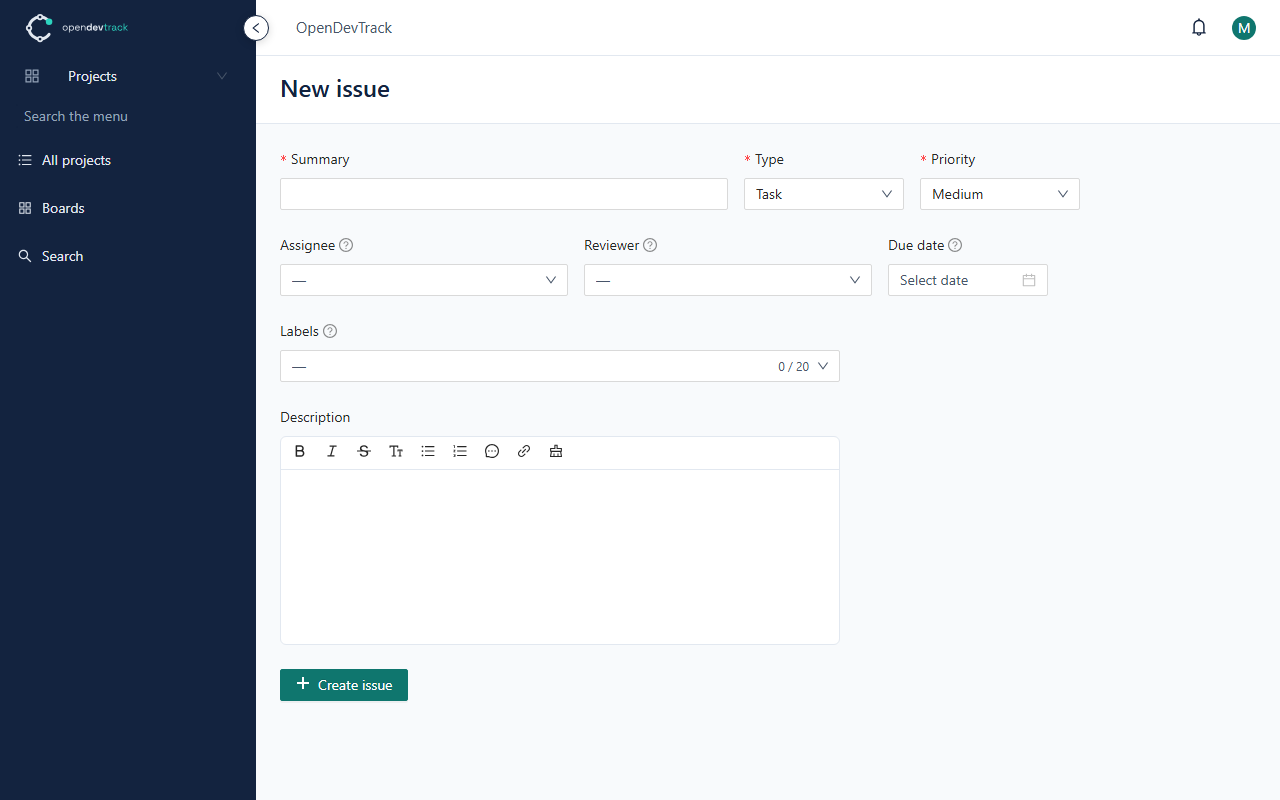
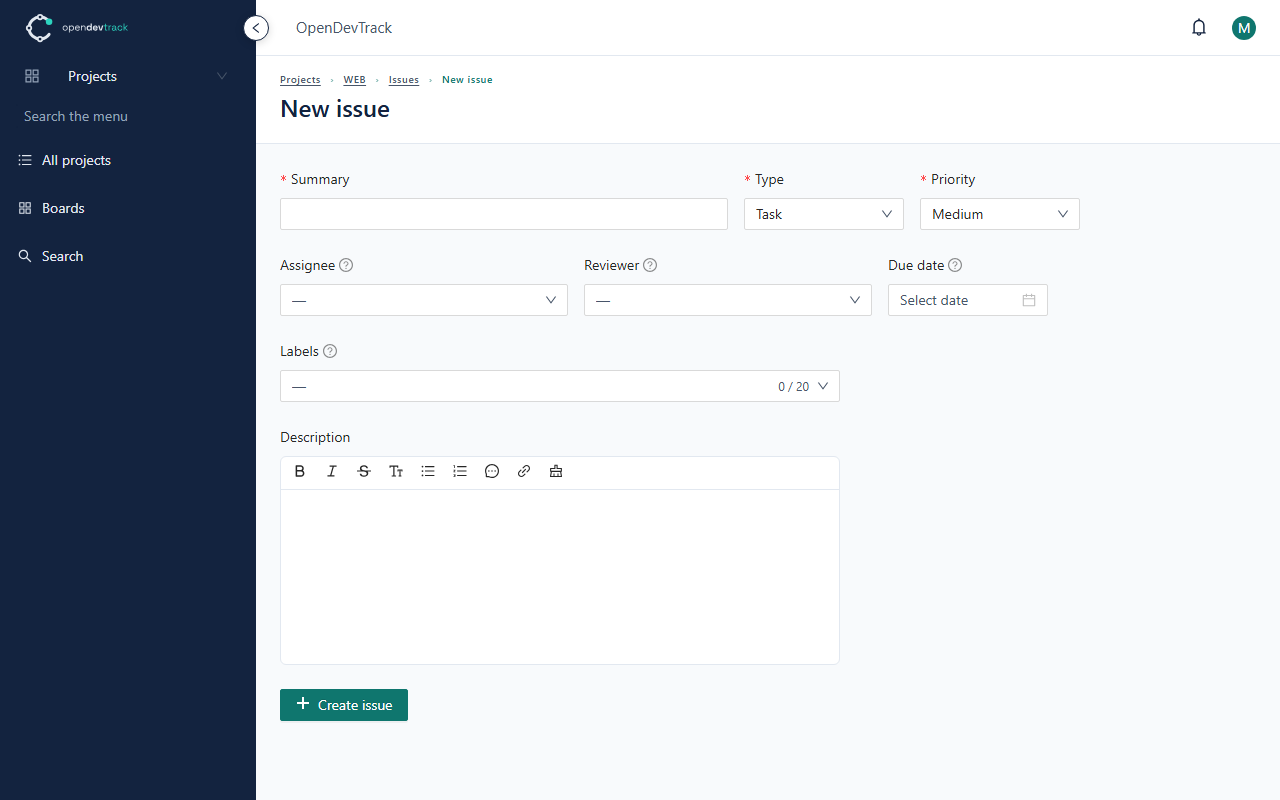
feat(ui): breadcrumbs on every page, with Quadrava 0.21.0
Runtime image, CLI, kits and schemas move to 0.21.0, which answers Q37: a
screen may declare its breadcrumbs, and their items lead back to their page.
The screen schema gains `breadcrumb`; the other schemas are unchanged, and
the new check of the CLI on the targets of `navigate` finds nothing.

The screens of the menu keep its path. The 14 that are not in the menu
declare theirs, up to the menu: Projects, the project by its key, the page
above if any, and the screen itself, for example Projects › WEB › Issues ›
WEB-4. The key comes from the parameters, so no screen loads the project
only to name it; a record at the end (a board, a webhook, a workflow, a
group) is named by its data source with has(), empty while it loads.

Checked in the development stack: the path of every screen, its links, and
a click that opens the project inside the application. The user guide,
ui/README.md and the images of those screens follow.

Closes #45

diff --git a/HANDOFF.md b/HANDOFF.md
@@ -14,14 +14,14 @@ Quadrava and authz-library, and the ADRs say where.
   (`ModularityTests`: `verify()` and the module documentation). The `odt.*` permission catalogue is a repeatable
   Flyway migration of the RBAC schema (ADR-07); the dev profile adds tenants, users and the UI author/approver roles.
 - Module `uiregistry` (ADR-03): `contracts/registry.yaml` 0.7.0, adapted from the Quadrava reference registry
-  (commit 9fa1916, contract 0.6.0), on PostgreSQL (`odt_uiregistry`), validated with the schemas of Quadrava 0.20.1 in the classpath.
+  (commit 9fa1916, contract 0.6.0), on PostgreSQL (`odt_uiregistry`), validated with the schemas of Quadrava 0.21.0 in the classpath.
   The browser uses the session; tools use Keycloak access tokens of `opendevtrack-tools` on `/registry/**`
   (the bearer access of authz-library, A4).
 - `ui/`: the Quadrava project, with the main navigation, home and projects placeholder screens, themes `odt-light` and
-  `odt-dark` from `brand/`, English and Italian catalogues. The Quadrava CLI 0.20.1 checks it (`quadrava validate`) and publishes it
+  `odt-dark` from `brand/`, English and Italian catalogues. The Quadrava CLI 0.21.0 checks it (`quadrava validate`) and publishes it
   (`quadrava publish`) to any environment: no environment is protected (ADR-12).
 - End-to-end check (`docs/check-authz-end-to-end.md`): Quadrava kits bff 13/13 with and without a session, authz 11/11,
-  registry 24/24 (`--protected-env none`), tenant switch kept across logins, `ui/` served by the runtime 0.20.1 from the
+  registry 24/24 (`--protected-env none`), tenant switch kept across logins, `ui/` served by the runtime 0.21.0 from the
   registry. Quadrava 0.5.0 adopted on 4 November 2026 (from 0.2.1: same schemas, registry contract 0.7), 0.6.0 on 5
   November (tab title and icons from the theme, shell texts built in: Q3 and Q4), 0.7.0 on 5 November (theme and
   language in the settings dialog of the user menu; the message bell of ADR-22), 0.8.0 on 6 November (`data.<name>` in the expressions: Q9), 0.9.0 on 6 November (links from the rows, Q10;
@@ -187,6 +187,8 @@ texts in English), A4 (bearer access for tools), A5 (read-only list of the tenan
    - `v1.0.0-rc.4` tagged on 3a7b36a with Quadrava 0.20.1: its workflow green after the installation job was rerun
      once, as for rc.3 (its log hides why it failed, #44), image @sha256:078b7fca… with its signature and SBOM verified
      by cosign. The demo is upgraded to it (old `.env` in /root/odt-demo-env.rc3.bak); `watch.sh` ok.
+   - The project page in tabs, as the issue page (25 November 2026). Quadrava 0.21.0 adopted (Q37): breadcrumbs on
+     every screen, declared by the 14 that are not in the menu.
    Next: the screen reader lines and the ZAP baseline on the current candidate.
 2. Deployment: `deploy/compose` (ADR-25 step 1) runs the back end, the runtime, PostgreSQL and Redis, with Caddy and
    Keycloak as optional profiles. `odt.sh first-admin` creates the first tenant and global administrator (one-off

diff --git a/docs/README.md b/docs/README.md
@@ -73,7 +73,7 @@ Found while writing the ADRs; each is built in its own repository, optional for 
 | Q34 | Quadrava | In a dark theme the colours of the theme win over the dark stylesheet of NG-ZORRO, which today turns primary buttons, tabs and tags to its own blue and danger buttons to a dark red, below 4.5:1 (manual accessibility check of 1.0.0-rc.1, issue #40; asked 24 November 2026; released in Quadrava 0.20.0, the colours of the theme win, and adopted: no text below 4.5:1 on ten screens in the dark theme; the badges of the board remain, Q35) |
 | Q35 | Quadrava | The text of a tone tag on a coloured fill reads on it: in a dark theme the badges of the kanban cards are white on the light text colours of the theme, 2.56:1 (neutral) and 2.77:1 (danger); `onPrimary`, or black or white, as for buttons since 0.20.0 (issue #42; asked 24 November 2026; released in Quadrava 0.20.1, the text of a badge in the colour the theme computes for its fill, and adopted: black on the badges of the board in the dark theme, about 8:1) | F5 |
 | Q36 | Quadrava | The runtime remembers the theme chosen in Settings, as it remembers the language: today a reload or the next sign-in shows the first theme again (issue #43; asked 24 November 2026; released in Quadrava 0.20.1, `lc.theme` in the storage of the browser, and adopted: the dark theme stays after a reload) | F5 | F5 |
-| Q37 | Quadrava | Breadcrumbs on every page: a screen declares its own (labels as expressions, items with `navigate` and `params`, the last one the screen), and their items are links; today only the screens of the menu have them, as plain text, so the project, an issue, the backlog or a board have none (asked by the maintainer; issue #45; asked 25 November 2026) | F5 |
+| Q37 | Quadrava | Breadcrumbs on every page: a screen declares its own (labels as expressions, items with `navigate` and `params`, the last one the screen), and their items are links; today only the screens of the menu have them, as plain text, so the project, an issue, the backlog or a board have none (asked by the maintainer; issue #45; asked 25 November 2026; released in Quadrava 0.21.0, `breadcrumb` on screens, and adopted: the 14 screens outside the menu declare their path, ui/README.md) | F5 |
 | A1 | authz-library | Extension point for permissions that depend on a resource (ADR-07; until then `_perm` on rows and forms; released in authz-library 2.2.0, `PermissionContributor`, and adopted: `project/ProjectPermissions` decides `/authz/check` for a project or an issue; `_perm` stays for the screens) | F2 |
 | A2 | authz-library | A configurable schema for the RBAC tables (today they go into `public`, next to the `odt_*` schemas of the modules; released in authz-library 2.2.0, `authz.rbac.schema`, and adopted: schema `authz`) | F1 |
 | A3 | authz-library | Problem titles and details in English (today Italian, for example «Troppi tentativi di accesso»); released in authz-library 2.1.0 and adopted (2.2.0) | F5 |

diff --git a/ui/README.md b/ui/README.md
@@ -1,7 +1,7 @@
 # OpenDevTrack screens
 
 The front end of OpenDevTrack is this Quadrava project: screens, navigation, themes and translations, as JSON documents
-validated by the schemas of the pinned Quadrava version (0.20.1, ADR-01). No Angular code: the runtime image of Quadrava
+validated by the schemas of the pinned Quadrava version (0.21.0, ADR-01). No Angular code: the runtime image of Quadrava
 loads them from the registry of the back end (module `uiregistry`, ADR-03).
 
 | Path | Registry kind | What |
@@ -42,20 +42,25 @@ loads them from the registry of the back end (module `uiregistry`, ADR-03).
 - **Project page**: `project-detail` has the tabs General (the form, its buttons and those of the permission scheme
   and the administration log), Boards, Members, Groups, Workflows and Custom fields, in a card (a `section` without a
   title). Each of the last five has the button that adds to it above its table; the label of the tab is its heading.
+- **Breadcrumbs** (Quadrava 0.21.0, Q37): the screens of the menu show its path; every other screen declares its own
+  `breadcrumb`, the path up to the menu: Projects, then the project by its key (`params.key`, which every screen of a
+  project has, so no screen loads the project only for it), then the page above it if any, then the screen itself.
+  The record at the end is named by its data source with `has()` (`has(data.board) ? data.board.name : ''`), so the
+  label is empty while it loads. Every item but the last one has `navigate`.
 - **Validation**: `quadrava validate ui` (the Quadrava CLI, in CI) checks the documents as the runtime reads them:
   schemas, references to data sources, CEL expressions, themes and catalogues. In the back end, `SchemaValidationTest`
   checks them with the validator of the registry and `UiCataloguesTest` that every `t('key')` is in both catalogues.
 
 ## Publishing
 
-The Quadrava CLI (`@sramaccini/quadrava-cli@0.20.1`, the version of the runtime) is on GitHub Packages: the `.npmrc`
+The Quadrava CLI (`@sramaccini/quadrava-cli@0.21.0`, the version of the runtime) is on GitHub Packages: the `.npmrc`
 of the repository maps `@sramaccini` there, and npm needs a token with `read:packages` for `npm.pkg.github.com` in
 the user config (`~/.npmrc`; in CI, `NODE_AUTH_TOKEN`). From the root of the repository, with a Keycloak access token
 of the client `opendevtrack-tools` in `QUADRAVA_TOKEN`:
 
 ```bash
-npx --yes @sramaccini/quadrava-cli@0.20.1 validate ui
-npx --yes @sramaccini/quadrava-cli@0.20.1 publish ui --registry http://localhost:28080 --app opendevtrack --env development
+npx --yes @sramaccini/quadrava-cli@0.21.0 validate ui
+npx --yes @sramaccini/quadrava-cli@0.21.0 publish ui --registry http://localhost:28080 --app opendevtrack --env development
 ```
 
 The same command publishes to `testing` and `production`: the registry has no protected environments (ADR-12), the

diff --git a/docs/check-authz-end-to-end.md b/docs/check-authz-end-to-end.md
@@ -1,12 +1,12 @@
 # End-to-end check of authz-library (F0)
 
 Result on 31 October 2026: **all checks passed**. The OpenDevTrack back end, built on the authz-library 2.0.1
-libraries, talks to the Quadrava runtime 0.20.1 as the contracts of Quadrava ask, with the versions OpenDevTrack targets.
+libraries, talks to the Quadrava runtime 0.21.0 as the contracts of Quadrava ask, with the versions OpenDevTrack targets.
 
 ## What runs
 
 ```
-browser / kits ──▶ quadrava-runtime 0.20.1 (:28090) ──/bff /authz /logout /oauth2──▶ backend/ (:28080, profile dev)
+browser / kits ──▶ quadrava-runtime 0.21.0 (:28090) ──/bff /authz /logout /oauth2──▶ backend/ (:28080, profile dev)
                                                                                     │ authz-bff, authz-session, authz-rbac 2.0.1
                          Keycloak 26.8.0 (:28180, realm opendevtrack) ◀── OIDC ─────┤
                          PostgreSQL 18.6 (:25432) ◀── RBAC schema + odt.* catalogue ┤
@@ -51,7 +51,7 @@ Maven must reach the authz-library packages: see [backend/README.md](../backend/
 | ZAP baseline scan through the runtime, signed in (`run.sh zap`, ADR-23), from F5 | no medium or high alert outside `e2e/zap/allowlist.json` (empty: since Quadrava 0.14.0 the pages carry a CSP, Q18, tightened in 0.15.0, Q21); low: the `XSRF-TOKEN` cookie of authz-library is readable by scripts, as the front end needs, and has no `SameSite` |
 | In the browser: login through the runtime, the user menu | «Spazio di lavoro» with both tenants, GLOBEX selected, 2 permissions |
 
-The kits come from the Quadrava tag `v0.20.1`, the pinned release (downloaded file by file, not cloned); until 0.2.0
+The kits come from the Quadrava tag `v0.21.0`, the pinned release (downloaded file by file, not cloned); until 0.2.0
 they came from `main` at `9fa1916`, since the authorization kit with session cookies was not in `v0.1.0`.
 
 ## Found along the way

diff --git a/stack/README.md b/stack/README.md
@@ -7,7 +7,7 @@ with its embedded database. It is not a way to install OpenDevTrack: that is [de
 [docs/admin/installation.md](../docs/admin/installation.md).
 
 ```
-browser ──▶ quadrava-runtime 0.20.1 (:18090) ──/bff /authz /api /registry──▶ backend (profile dev, image from backend/)
+browser ──▶ quadrava-runtime 0.21.0 (:18090) ──/bff /authz /api /registry──▶ backend (profile dev, image from backend/)
                                                                                │ in the network of Keycloak
             Keycloak 26.8.0 (:18180, realm opendevtrack) ◀── OIDC, on localhost ┤
             PostgreSQL 18 (volume pgdata) ◀─────────────────────────────────────┤
@@ -73,7 +73,7 @@ have something to show from the first login.
 - The realm and the runtime configuration are those of the end-to-end check (`e2e/authz/realm-opendevtrack.json`,
   `e2e/authz/runtime-config.json`); the brand is mounted from `brand/` as there.
 - `ui/` is published to the environment `development` of the registry by the service `publish` (Node 24 and the
-  Quadrava CLI 0.20.1), with an access token of `mario.rossi` from the tools client.
+  Quadrava CLI 0.21.0), with an access token of `mario.rossi` from the tools client.
 - Keycloak imports the realm only when its container is created: after a change of the realm, `down` then `up`.
 - The API with a token (docs/api.md): the client `opendevtrack-ci` is a service account (client credentials, its
   secret `CI_CLIENT_SECRET` in `.work/.env`), whose user `service-account-opendevtrack-ci` is a member of `ACME`;

diff --git a/docs/admin/installation.md b/docs/admin/installation.md
@@ -13,7 +13,7 @@ browser ──https──▶ Keycloak (login) ◀── OIDC, back-channel logou
 - **Back end**: the image `ghcr.io/sramaccini/opendevtrack-backend` of a release, signed, with its SBOM
   ([operations](../operations/README.md), «Verifying the image»). It holds the API, the BFF of the browser (login,
   session, CSRF), the registry of the screen definitions, and creates its schemas at each start (Flyway).
-- **Quadrava runtime**: `ghcr.io/sramaccini/quadrava-runtime` at the version the release pins (0.20.1). It serves the
+- **Quadrava runtime**: `ghcr.io/sramaccini/quadrava-runtime` at the version the release pins (0.21.0). It serves the
   pages and loads the screens of `ui/` from the registry of the back end.
 - **Proxy**: ends TLS and gives the browser one origin. The paths of the BFF go to the back end and everything else to
   the runtime, so the back end sees `X-Forwarded-Proto: https` and builds its addresses on https.

diff --git a/backend/README.md b/backend/README.md
@@ -64,7 +64,7 @@ the Problems. The RBAC administration of authz-library (`/api/v1/admin/**`) is l
 
 ## Registry of the screen definitions (`uiregistry`)
 
-Implements `contracts/registry.yaml` 0.7.0 of Quadrava 0.20.1, adapted from its reference registry (0.6.0). Versions and publications
+Implements `contracts/registry.yaml` 0.7.0 of Quadrava 0.21.0, adapted from its reference registry (0.6.0). Versions and publications
 are in the schema `odt_uiregistry` (Flyway, `db/odt/uiregistry`). Documents are validated against the schemas of the
 pinned Quadrava version in `src/main/resources/quadrava/schemas`, refreshed with `tools/sync-quadrava-schemas.sh
 <version>`. The browser reaches it with the session; tools (`quadrava publish`, the registry kit) with a Keycloak

diff --git a/docs/guide/README.md b/docs/guide/README.md
@@ -39,6 +39,8 @@ and settings, and you see the work of one at a time.
   - **Administration**: shown only to administrators ([administrator guide](../admin/administration.md)).
 
   «Search the menu» finds an item by its name, and the arrow next to the logo folds the side bar.
+- **The path** above the title of each page says where you are, for example Projects › WEB › Issues › WEB-4. Each
+  step before the last one leads back to its page.
 - **The bell** shows your messages: mentions, assignments, reviews asked, comments and status changes
   ([Notifications](notifications.md)).
 - **The user menu** (your initial) switches the workspace, opens the settings and signs out. The settings have four
